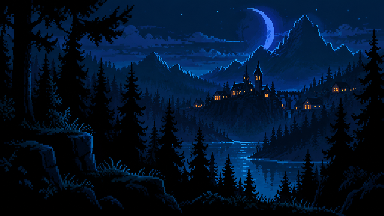
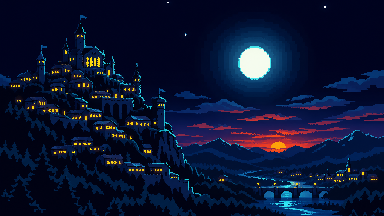
templates/looks: luminous has the bright area its catalogue check asks for
pixel:luminous failed its own check that the brightest 2 % of a capture
is above 0.8: the 98th percentile of the preview frame's luma was 0.548,
and stronger lamps barely moved it. The light is now in the art: a
backdrop with a full moon in a wide halo and a hill town of lit windows
standing above the tree line, and a gem with a near-white core. The
scene's gems glow more at night (0.6 to 1.6). The frame now measures a
98th percentile of 0.830 with a mean of 0.138, under the check's 0.25.

Amp-Thread-ID: https://ampcode.com/threads/T-01a1ea24-99a1-750f-b1c6-6bed2a3de2b1

diff --git a/templates/looks/preview/2d/tools/art.ts b/templates/looks/preview/2d/tools/art.ts
@@ -149,6 +149,8 @@ const BEAT_NOTES: Record<string, Record<string, string>> = {
     mid: "Drawing: the whole row is one flat silhouette in a single muted blue-grey, a step lighter than a night sky, with nothing inside it: no windows, no highlights, no second colour.",
   },
   "pixel:luminous": {
+    backdrop: "Light: a large full moon, a tenth of the picture's width across, stands in the sky right of the middle and well below the top edge: a bright near-white disc with a pale cyan rim and a wide soft glow round it. A town climbs a tall hill in the left half of the picture, its roofs and towers reaching two thirds of the way up the picture, well above the forest, with rows of many lit windows of bright warm yellow; a few bright stars are out. Everything else stays near black and deep blue; the top left and top right corners hold only dark sky.",
+    gem: "Light: the gem glows: a bright near-white core with saturated cyan facets round it, the brightest small thing in a dark scene; nothing on it is dark.",
     hero: "Drawing: a simple chunky figure made for a 20 x 32 grid of large square blocks, nothing finer: a big pointed hood and head a third of the figure's height, one plain cloak to the knees, two boots, a round pack, the lantern held out as a three-block square. Large flat shapes at least three blocks wide; no straps, belt, buckle, folds or face detail. Light: the lantern lights the figure: the front half of the hood and cloak is one bright orange, the back half one saturated mid blue with a cyan edge, the lantern bright yellow; nothing on the figure is black or near black.",
     slime: "Light: the slime shines from within: a bright saturated cyan-green body, lightest at its core, with two dark eyes and a white sheen; nothing on it is black.",
     crate: "Light: lit warm from the left by a lantern: the planks are mid amber-brown, the left edges bright orange, the right edges saturated blue; no plank is black or near black.",

diff --git a/templates/looks/preview/2d/src/main.ts b/templates/looks/preview/2d/src/main.ts
@@ -127,7 +127,7 @@ function side(world: World) {
   // At night the slime glows, as the gems do.
   sprite(world, "slime", 6.25, 2, { layer: 2, glow: DARK ? 0.4 : 0 });
   const over = 3 + (ART.platform?.height ?? 1) + 0.5;
-  for (const [x, y] of [[-4, over], [-3, over], [-2, over], [3.25, 2.25], [8, 3.25]] as const) sprite(world, "gem", x, y, { layer: 3, glow: DARK ? 0.6 : 0 });
+  for (const [x, y] of [[-4, over], [-3, over], [-2, over], [3.25, 2.25], [8, 3.25]] as const) sprite(world, "gem", x, y, { layer: 3, glow: DARK ? 1.6 : 0 });
   sprite(world, "hero", -2.25, 0, { layer: 5 });
   for (const [x, y, flip] of [[-5.25, 0, false], [1.9, 0, true], [4.9, 2, false], [-10, 0, true]] as const) sprite(world, "bush", x, y, { layer: 8, flipX: flip });
 

diff --git a/templates/looks/preview/2d/tools/gateway-journal.md b/templates/looks/preview/2d/tools/gateway-journal.md
@@ -137,3 +137,6 @@ target/look-previews/raw/ on the machine that made them, not in git.
 | 2026-11-17 17:02 | generate_image | pixel:luminous hero | generation ddee7a51-5d98-44a9-b591-e2ae41fecf0e | 1024 x 1536, sha256 e3117ac97abb25fb78b9adad3da2dc6c5d0137168e46c0647da9060bfeffd8a7 |
 | 2026-11-17 17:02 | generate_image | pixel:monochrome backdrop | generation 6862cc0f-c88b-4c86-a7ac-3d36f88c0470 | 1536 x 1024, sha256 e114e8b7f6fd19f1336558295ecccc00b8e581313cc63ea86544d2497bcdef90 |
 | 2026-11-17 17:06 | note | pixel:monochrome backdrop | generations b7568ccb and 6862cc0f | neither answer is used: the look keeps its earlier backdrop with the sun moved by hand (templates/looks/AUTHORED.md) |
+| 2026-11-17 17:15 | generate_image | pixel:luminous backdrop | generation fca5071e-5f27-40c1-8290-cc82d5c93985 | 1536 x 1024, sha256 21bbafb264576c02124da03c946b6ae4fc446c31b8d56d52486c1710eead8a12 |
+| 2026-11-17 17:15 | generate_image | pixel:luminous gem | generation cf496576-63c1-45f1-94d3-d76b4cfc4812 | 1024 x 1024, sha256 eb84a20f5acb27e0edac7f0ceae0d1055fd9278be5adfcce3468afcbf37d346a |
+| 2026-11-17 17:18 | generate_image | pixel:luminous backdrop | generation d41a1cb3-1553-4822-9454-95938d6adeb4 | 1536 x 1024, sha256 010812a9460b05cb47949bf07cd49de579ac5dcfb4d943bd9e824f611ff14378 |
